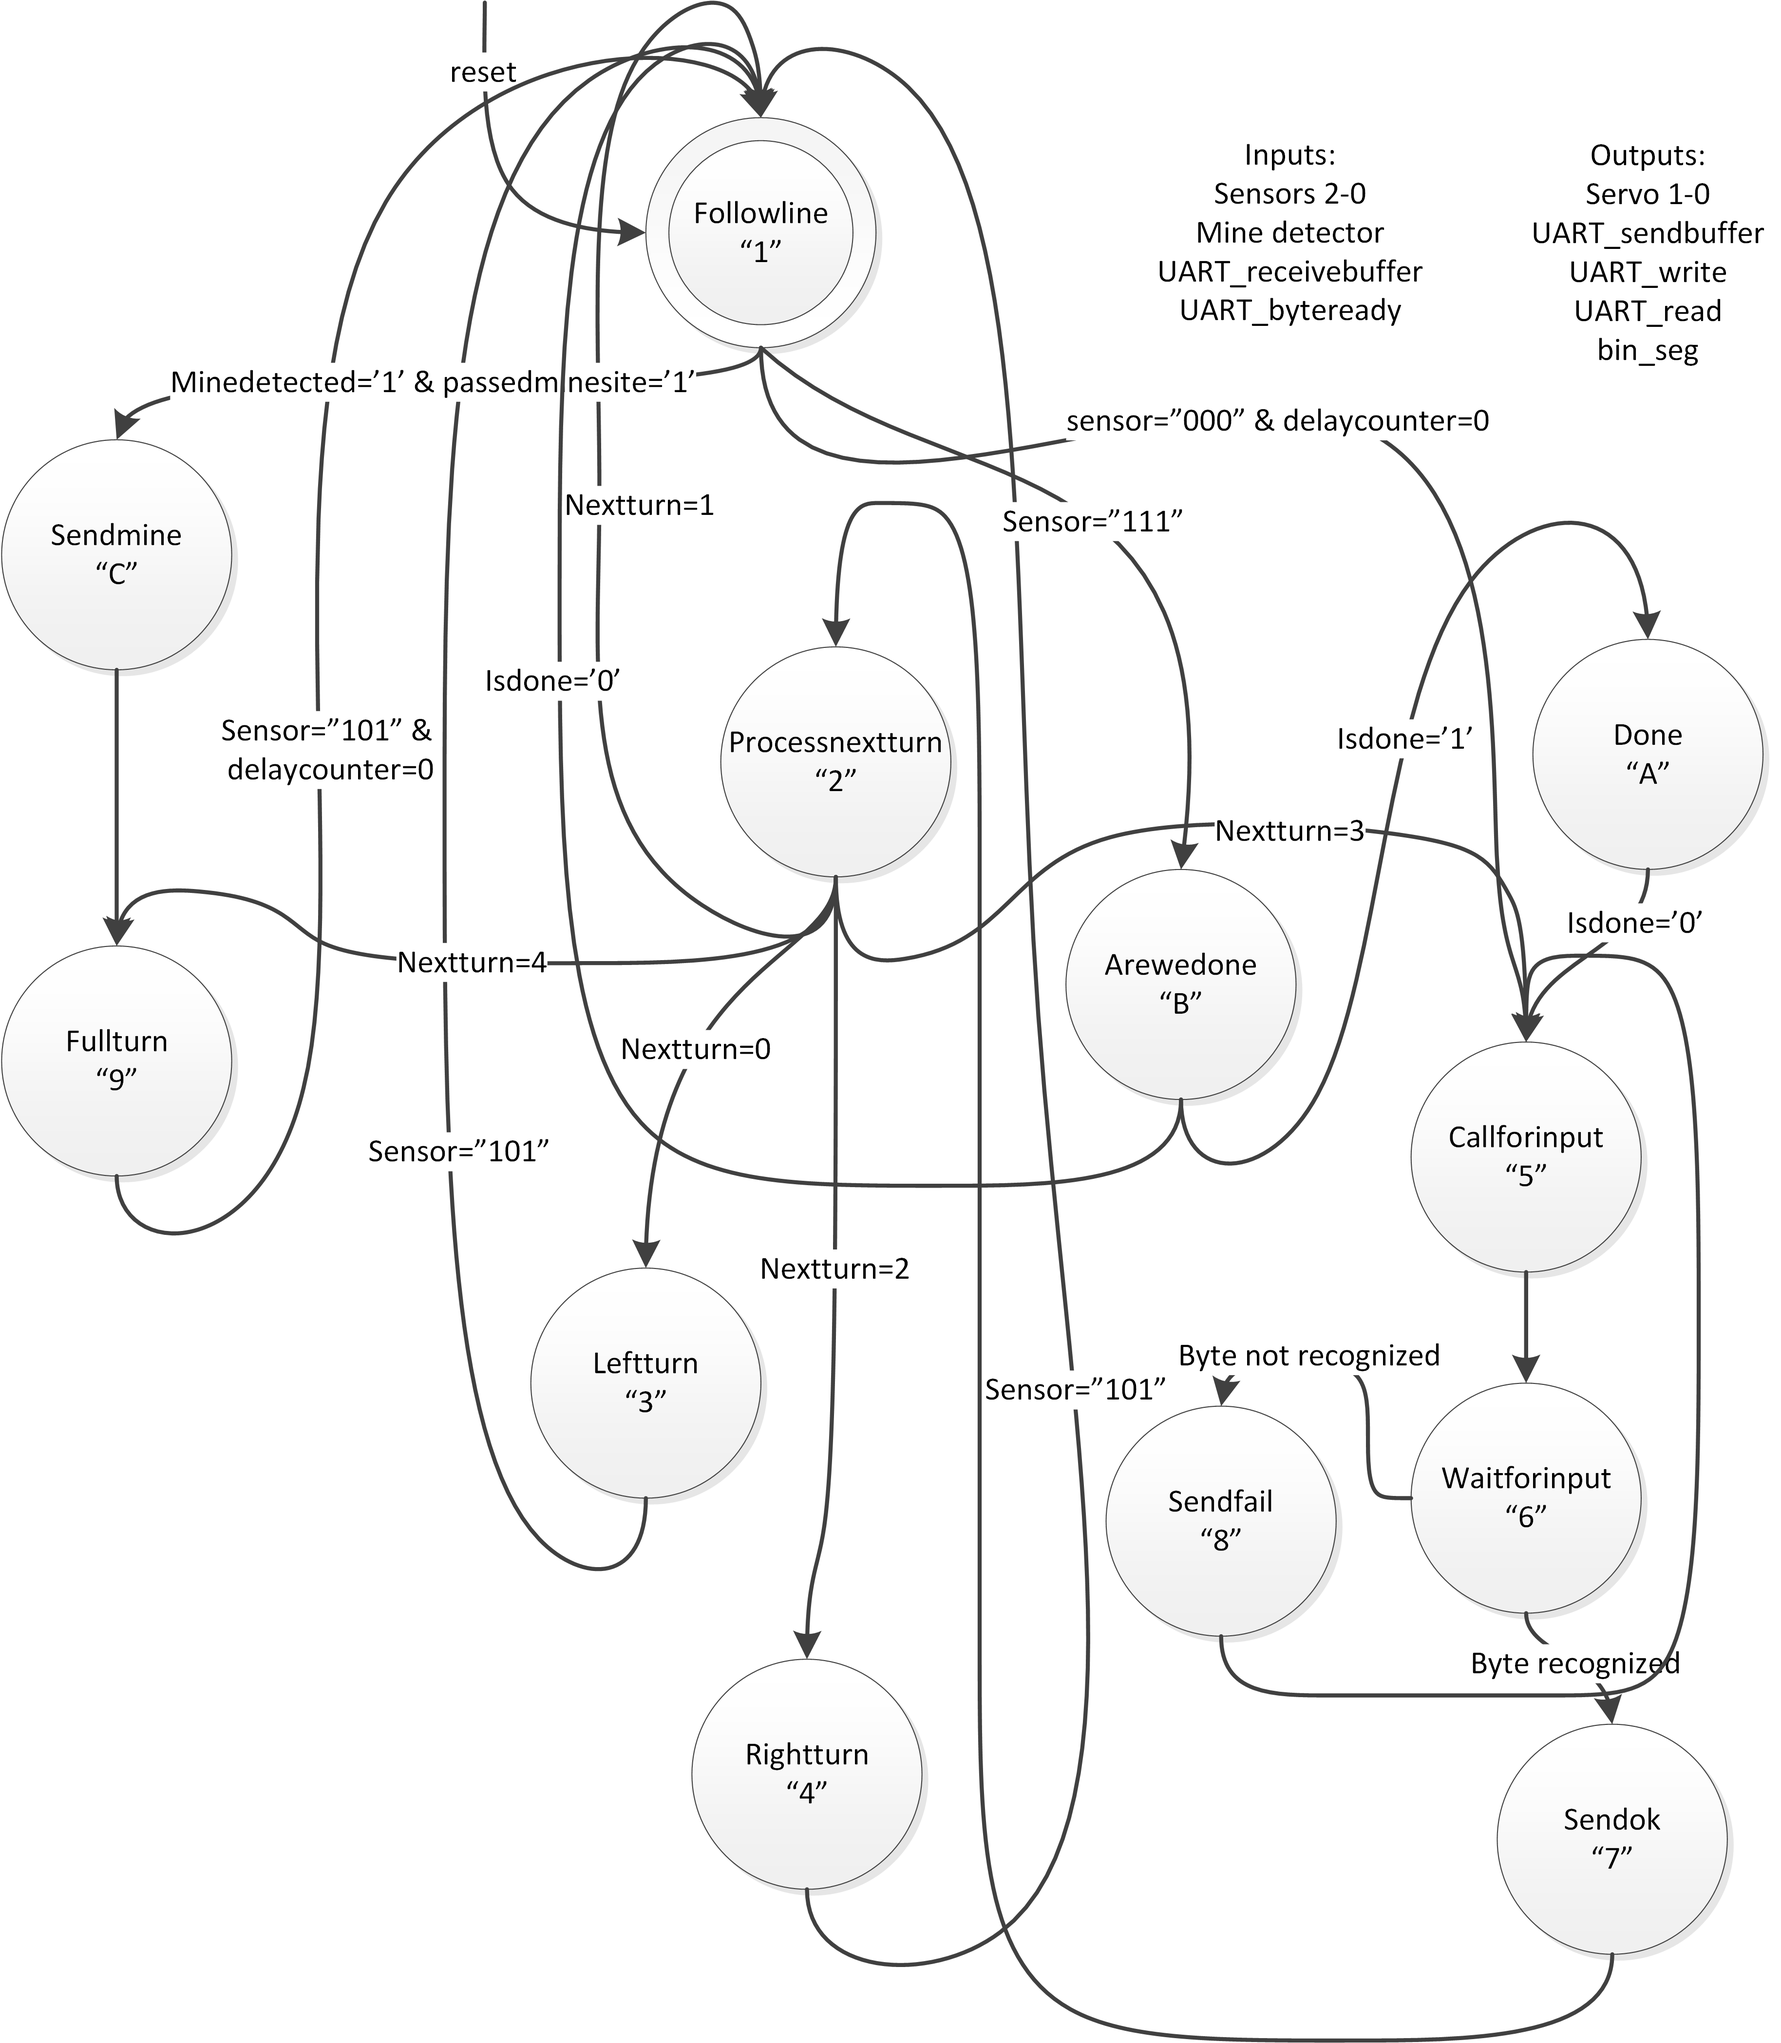
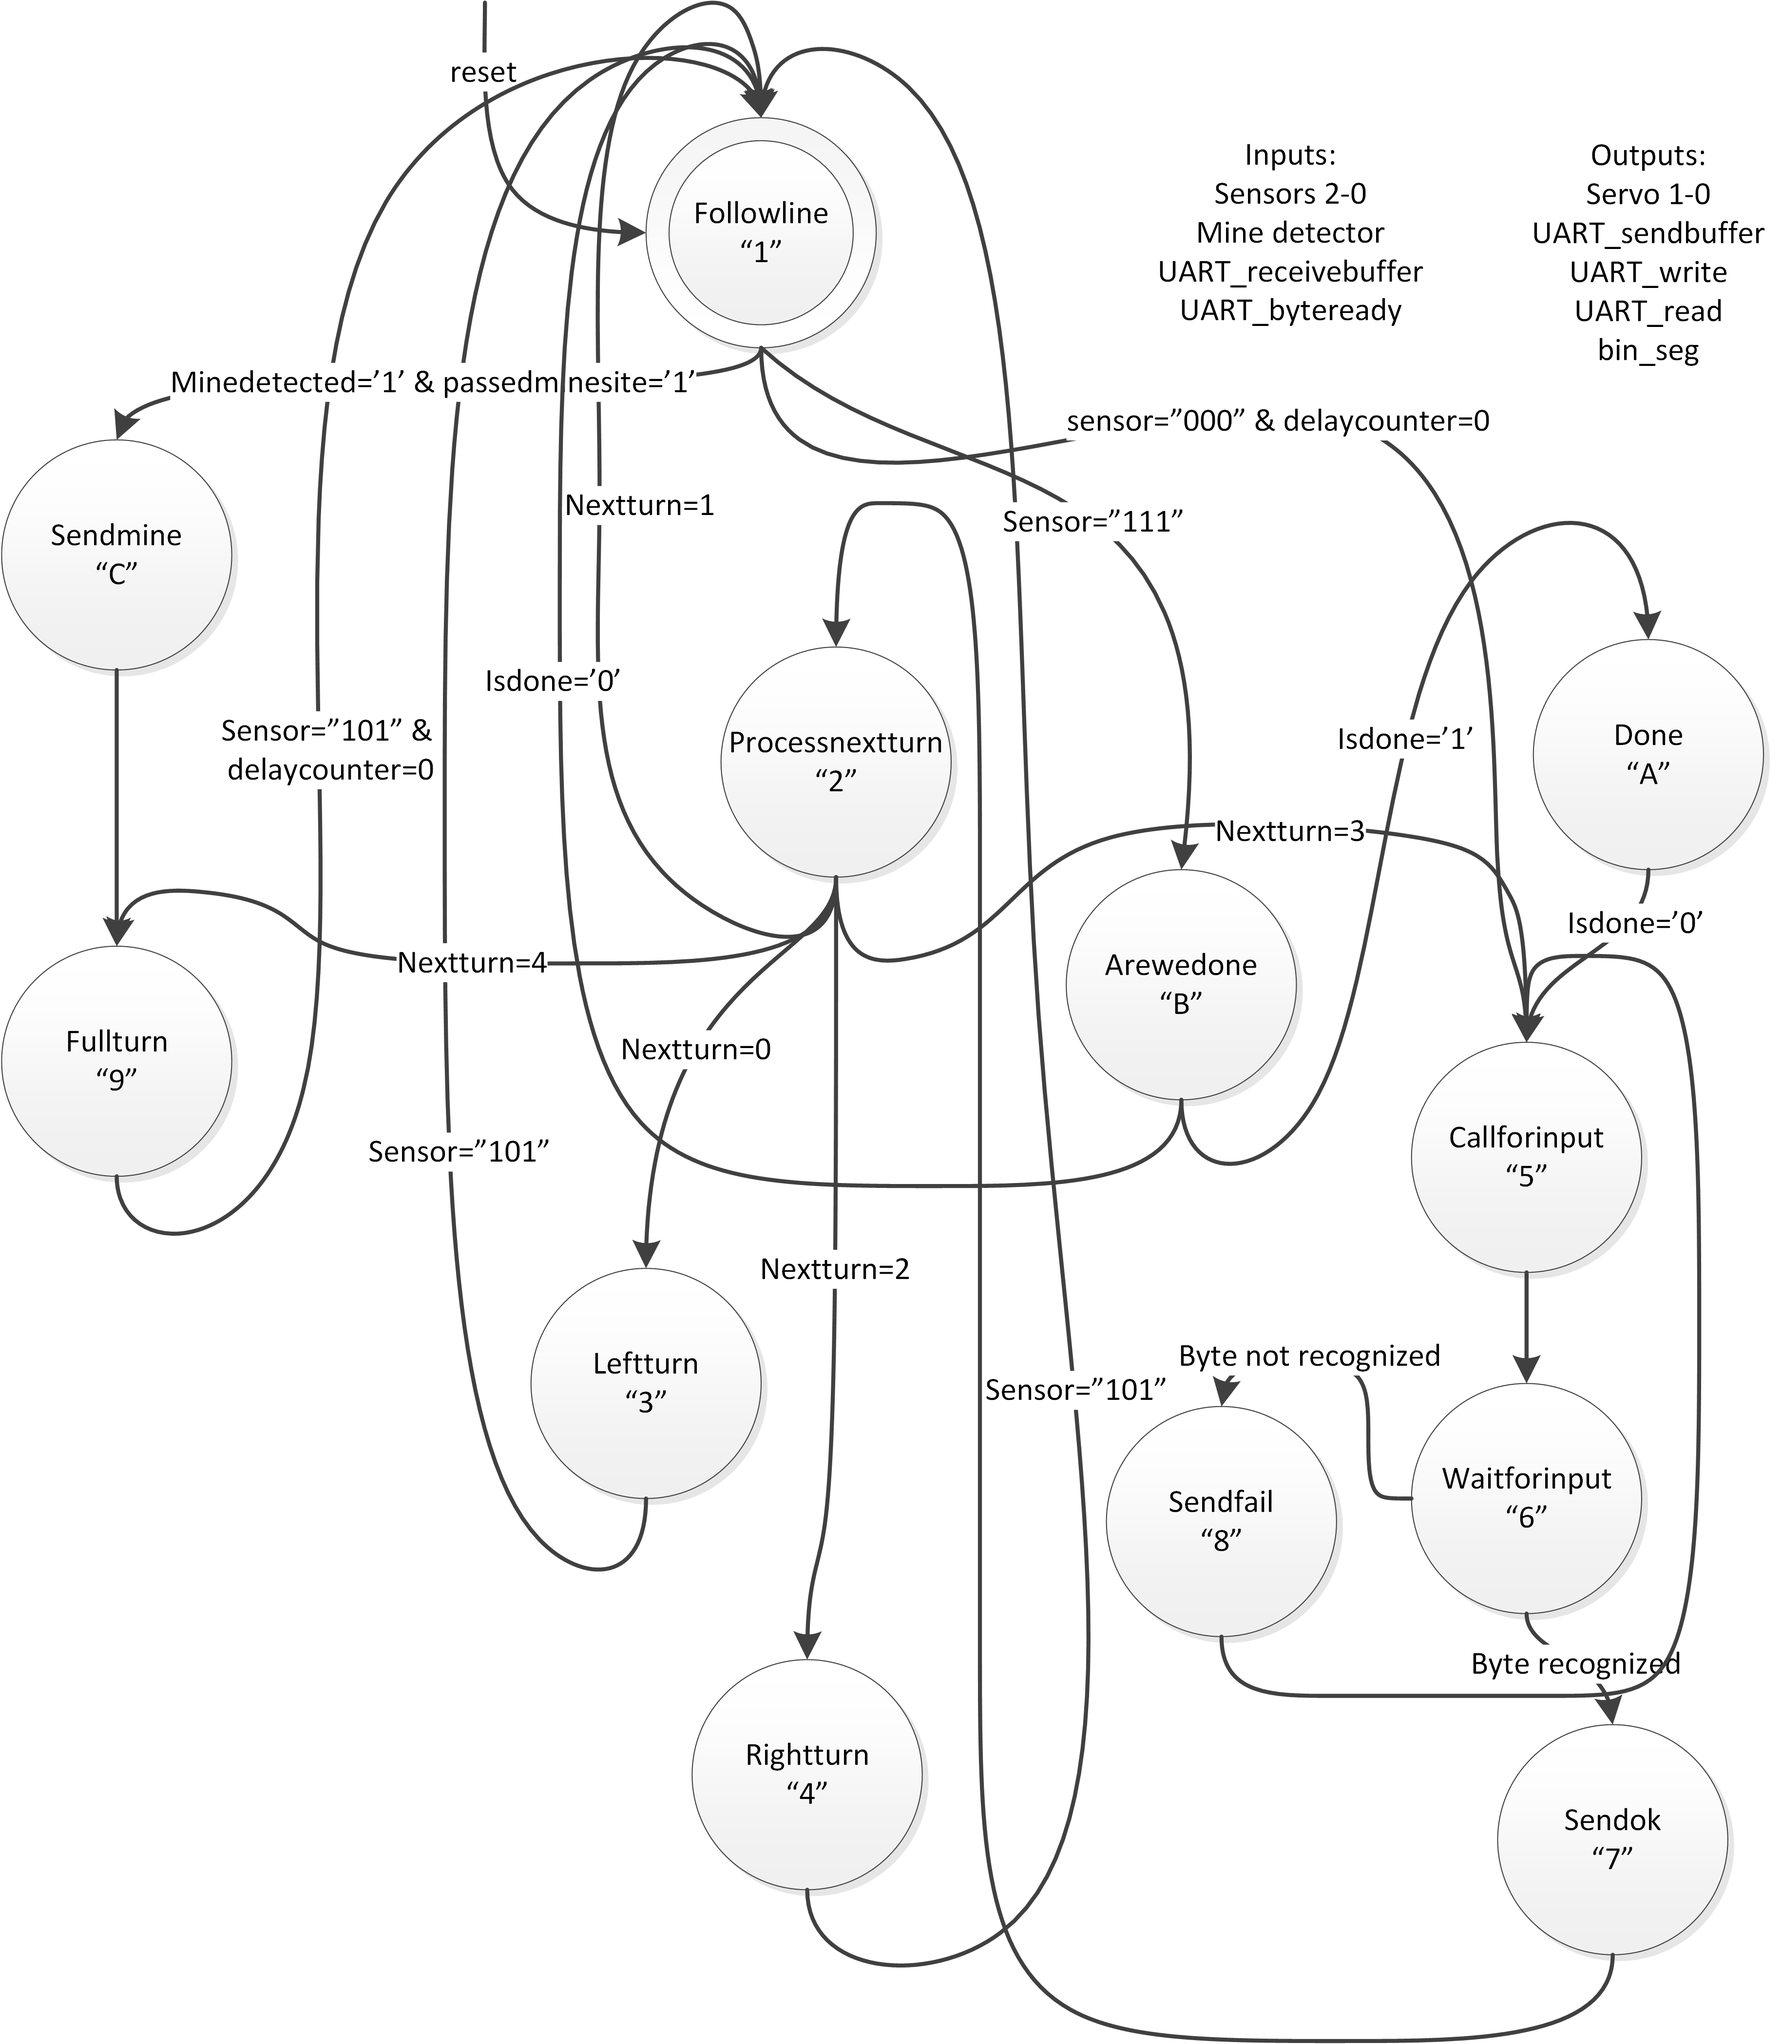
Fixed FSM Images (now transparent background and non-interlaced) Removed FSMMain image from controller. Fixed fonts.

diff --git a/docs/design-report/controller/design-report-controller.tex b/docs/design-report/controller/design-report-controller.tex
@@ -11,31 +11,51 @@
 \label{ch:controller}
 
 \section{Werkingsprincipe}
-De robot volgt na het indrukken van de reset knop een rechte lijn. Er wordt pas naar een andere state gegaan wanneer de robot: een kruispunt, een wit oppervlak of een mijn detecteert. 
+De robot volgt na het indrukken van de reset knop een rechte lijn.
+Er wordt pas naar een andere state gegaan wanneer de robot: een kruispunt, een wit oppervlak of een mijn detecteert.
 
-Bij een kruispunt vraagt de robot welke kant hij op moet, dit is afhankelijk van de kortste route. Het vragen en ontvangen van een signaal moet eerst worden goedgekeurd voordat de state volgt waar de robot een koers krijgt. 
 
-Bij een wit oppervlak vraagt de robot of hij klaar is met het rijden van de route. Als dat wel het geval is, stopt de robot met rijden. Zo niet, dan blijft de robot vooruit rijden.
+Bij een kruispunt vraagt de robot welke kant hij op moet, dit is afhankelijk van de kortste route.
+Het vragen en ontvangen van een signaal moet eerst worden goedgekeurd voordat de state volgt waar de robot een koers krijgt.
 
-Als er een mijn wordt gedetecteerd, dan wordt er doorgegeven aan de computer dat er een mijn op het wedstrijdveld is. Daarna maakt de robot een rotatie van 180$^\circ$ en volgt de lijn.
 
-\begin{figure}
-\centering
-\includegraphics[scale=0.5]{FSMMain.png}
-\caption{De finite-state machine van de controller.}
-\label{fig:fsmmain}
-\end{figure}
+Bij een wit oppervlak vraagt de robot of hij klaar is met het rijden van de route.
+Als dat wel het geval is, stopt de robot met rijden.
+Zo niet, dan blijft de robot vooruit rijden.
+
+Als er een mijn wordt gedetecteerd, dan wordt er doorgegeven aan de computer dat er een mijn op het wedstrijdveld is.
+Daarna maakt de robot een rotatie van 180$^\circ$ en volgt de lijn.
+De finite-state machine is bijgevoegd in de Bijlagen (Sectie \ref{sec:statemachines}, Figuur \ref{fig:fsmMain})
+
+%\begin{figure}
+%\centering
+%\includegraphics[scale=0.5]{FSMMain.png}
+%\caption{De finite-state machine van de controller.}
+%\label{fig:fsmmain}
+%\end{figure}
 
 \section{DebugID}
-Om te zien of de robot alle states goed doorloopt is de DebugID ge\"{i}mplementeerd. Iedere state is een nummer toegewezen, wat op het 7-segment display wordt weergegeven. Stel dat de robot de verkeerde beweging maakt tijdens het rijden op het wedstrijdveld, dan kan er gekeken worden naar welke state de robot is gegaan tijdens het maken van de verkeerde beweging. Dit maakt het oplossen van problemen eenvoudiger en sneller. 
+Om te zien of de robot alle states goed doorloopt is de DebugID ge\"{i}mplementeerd.
+Iedere state is een nummer toegewezen, dat op het 7-segment display wordt weergegeven.
+Stel dat de robot de verkeerde beweging maakt tijdens het rijden op het wedstrijdveld, dan kan er gekeken worden naar welke state de robot is gegaan tijdens het maken van de verkeerde beweging.
+Dit maakt het oplossen van problemen eenvoudiger en sneller.
+
 
 \section{FSM-states}
 
 \subsection{Delay-state}
-In de delay-state staat een delay-counter die ervoor zorgt dat er tijdens de delay geen signaal naar de computer wordt gestuurd. Dit is handig, want de robot zal bij een rechte lijn niet steeds aan de computer vragen waar hij heen moet. De robot zal daardoor vloeiend rechtdoor rijden in plaats van een stutter beweging maken. Er is voor de delay-counter een bepaalde waarde gekozen en zal na iedere opgaande klokflank met 1 verminderen. Als de delay-counter dan op 0 komt te staan, wordt er een nieuwe state gevraagd. In principe zorgt de delay-state ervoor dat het interval van het vragen van een nieuwe state wordt vergroot. 
+In de delay-state staat een delay-counter die ervoor zorgt dat er tijdens de delay geen signaal naar de computer wordt gestuurd.
+Dit is handig, want de robot zal bij een rechte lijn niet steeds aan de computer vragen waar hij heen moet.
+De robot zal daardoor vloeiend rechtdoor rijden in plaats van een stutter beweging maken.
+Er is voor de delay-counter een bepaalde waarde gekozen en zal na iedere opgaande klokflank met 1 verminderen.
+Als de delay-counter dan op 0 komt te staan, wordt er een nieuwe state gevraagd.
+In principe zorgt de delay-state ervoor dat het interval van het vragen van een nieuwe state wordt vergroot.
+
 
 \subsection{Followline-state}
-De main state waar de robot in begint nadat de reset wordt ingedrukt is Followline. De robot volgt de lijn op het wedstrijdveld en als er afwijkingen zijn, wordt de baan door middel van de sensoren gecorrigeerd. Tijdens het volgen van de lijn kunnen de volgende states voorkomen: 
+De main state waar de robot in begint nadat de reset wordt ingedrukt is Followline.
+De robot volgt de lijn op het wedstrijdveld en als er afwijkingen zijn, wordt de baan door middel van de sensoren gecorrigeerd.
+Tijdens het volgen van de lijn kunnen de volgende states voorkomen: 
 \begin{itemize}
 \item De robot staat op het kruispunt en wacht op het volgende commando;
 \item De robot ziet een witte lijn en vraagt of dit het einde is van de route;
@@ -43,21 +63,33 @@ De main state waar de robot in begint nadat de reset wordt ingedrukt is Followli
 \end{itemize}
 
 \subsection{Callforinput-state}
-Wanneer de robot bij een kruising komt (de sensoren registeren alle drie zwart) en de delay-counter is gelijk aan nul, dan gaat de robot naar de Callforinput-state. In deze state wordt er aan de computer gevraagd wat de robot moet doen. Als het vragen naar een input aangekomen en goedgekeurd is, dan wacht de robot op een commando. Gaat deze stap goed, dan volgt de Processnextturn-state, zo niet, dan vraagt de robot weer aan de computer om een input.
+Wanneer de robot bij een kruising komt (de sensoren registeren alle drie zwart) en de delay-counter is gelijk aan nul, dan gaat de robot naar de Callforinput-state.
+In deze state wordt er aan de computer gevraagd wat de robot moet doen.
+Als het vragen naar een input aangekomen en goedgekeurd is, dan wacht de robot op een commando.
+Gaat deze stap goed, dan volgt de Processnextturn-state, zo niet, dan vraagt de robot weer aan de computer om een input.
 
 \subsection{Processnextturn-state}
-In de Processnextturn-state wordt de ontvangen input ge\"{e}valueerd. Afhankelijk van de input gaat de robot naar de volgende states:
+In de Processnextturn-state wordt de ontvangen input ge\"{e}valueerd.
+Afhankelijk van de input gaat de robot naar de volgende states:
 \begin{itemize}
 \item Leftturn-state: de robot maakt een bocht naar links, totdat de sensoren een rechte lijn detecteren, dan volgt de robot de rechte lijn;
 \item Followline-state: de robot gaat in deze state wanneer er een direct commando is gegeven om de rechte lijn te volgen of wanneer de robot klaar is met maken van een bocht/draaiing;
 \item Rightturn-state: analoog aan de Leftturn-state;
 \item Fullturn-state: de robot maakt een draai van 180$^\circ$, daarna volgt hij een rechte lijn;
-\item Callforinput-state: er wordt gevraagd aan de computer wat het volgende commando is. Dit leidt ertoe dat de robot steeds blijft vragen wat het volgende commando is, oftewel het resultaat is dat de robot stopt. Bovendien wordt de UART-receiver gereset;
+\item Callforinput-state: er wordt gevraagd aan de computer wat het volgende commando is.
+Dit leidt ertoe dat de robot steeds blijft vragen wat het volgende commando is, oftewel het resultaat is dat de robot stopt.
+Bovendien wordt de UART-receiver gereset;
 \end{itemize} 
 
 \subsection{Sendmine-state}
-De robot gaat naar de Sendmine-state wanneer hij tijdens het volgen van een lijn een mijn detecteert. In deze state stop de robot met rijden en wordt er aan de computer doorgegeven dat er een mijn ligt. Als dat is goedgekeurd, gaat de robot naar de Fullturn-state en maakt een rotatie.
+De robot gaat naar de Sendmine-state wanneer hij tijdens het volgen van een lijn een mijn detecteert.
+In deze state stop de robot met rijden en wordt er aan de computer doorgegeven dat er een mijn ligt.
+Als dat is goedgekeurd, gaat de robot naar de Fullturn-state en maakt een rotatie.
 
 \subsection{Arewedone-state}
-De Arewedone-state volgt na het detecteren van een wit oppervlak. Er wordt gevraagd of het bepaalde punt het einde is van de route. Als dat zo is, volgt de Done-state en stopt de robot. Zo niet, dan volgt de Followline-state. Bovendien is er in de Done-state nog een mogelijkheid om de robot de laten rijden nadat hij stilstaat.
+De Arewedone-state volgt na het detecteren van een wit oppervlak.
+Er wordt gevraagd of het bepaalde punt het einde is van de route.
+Als dat zo is, volgt de Done-state en stopt de robot.
+Zo niet, dan volgt de Followline-state.
+Bovendien is er in de Done-state nog een mogelijkheid om de robot de laten rijden nadat hij stilstaat.
 \end{document}

diff --git a/docs/library/style.tex b/docs/library/style.tex
@@ -1,14 +1,6 @@
+%\renewcommand{\familydefault}{\sfdefault}
 \setmainfont{XITS}
 \setmathfont{XITS Math}
-%\usepackage[math]{iwona}
-%\usepackage[cm-default]{fontspec}
-%\setmainfont[Mapping=tex-text]{Minion Pro}
-%\setsansfont[Mapping=tex-text,Scale=MatchUppercase]{Iwona}
-%\setmathrm{Iwona}
-%\setboldmathrm{Iwona Bold}
-%\setmathsf{Iwona}
-%\setmathtt{Courier}
-%\setmonofont[Scale=MatchUppercase]{DejaVu Sans Mono}
 
 \usepackage{titlesec, blindtext, color}
 \definecolor{gray75}{gray}{0.75}
@@ -16,7 +8,6 @@
 \titleformat{\chapter}[hang]{\Huge\bfseries}{\thechapter\hsp\textcolor{gray75}{|}\hsp}{0pt}{\Huge\bfseries}
 \renewcommand{\familydefault}{\sfdefault}
 \renewcommand{\arraystretch}{1.2}
-%\usepackage[math]{iwona}
 
 %For code listings
 \definecolor{black}{rgb}{0,0,0}
@@ -28,7 +19,7 @@
 \definecolor{greencomments}{rgb}{0,0.5,0}
 \definecolor{redstrings}{rgb}{0.9,0,0}
 \definecolor{purpleidentifiers}{rgb}{0.01,0,0.01}
-\usepackage[scaled]{beramono}
+
 
 \lstdefinestyle{csharp}{
 language=[Sharp]C,

diff --git a/docs/design-report/bijlagen/design-report-bijlagen.tex b/docs/design-report/bijlagen/design-report-bijlagen.tex
@@ -90,23 +90,23 @@ My Address				& 0x4658 	& 0x8564\\
 \begin{figure}[H]
 \centering
 \caption{De FSM's op de FPGA}
-\begin{subfigure}{0.20\linewidth}
+\begin{subfigure}{0.40\linewidth}
 \subcaption{FSM van de receiver.}
 \label{fig:fsmReceiver}
 \includegraphics[width=\linewidth]{FSMReceiver}
 \end{subfigure}
 \quad
-\begin{subfigure}{0.50\linewidth}
-\subcaption{FSM van het hoofd systeem.}
-\label{fig:fsmMain}
-\includegraphics[width=\linewidth]{FSMMain}
-\end{subfigure}
-\quad
-\begin{subfigure}{0.20\linewidth}
+\begin{subfigure}{0.40\linewidth}
 \subcaption{FSM van de sender.}
 \label{fig:fsmSender}
 \includegraphics[width=\linewidth]{FSMSender}
 \end{subfigure}
+\end{figure}
+
+\begin{figure}[H]
+\caption{FSM van het hoofd systeem.}
+\label{fig:fsmMain}
+\includegraphics[width=0.8\linewidth]{FSMMain}
 \end{figure}
 
 \section{Broncode}

diff --git a/docs/library/preamble.tex b/docs/library/preamble.tex
@@ -18,7 +18,7 @@
 \usepackage{xunicode}
 \usepackage{amsmath}
 \usepackage{fontspec}
-\usepackage[]{unicode-math}
+\usepackage{unicode-math}
 \usepackage[
     backend=bibtexu,
 	texencoding=utf8,
